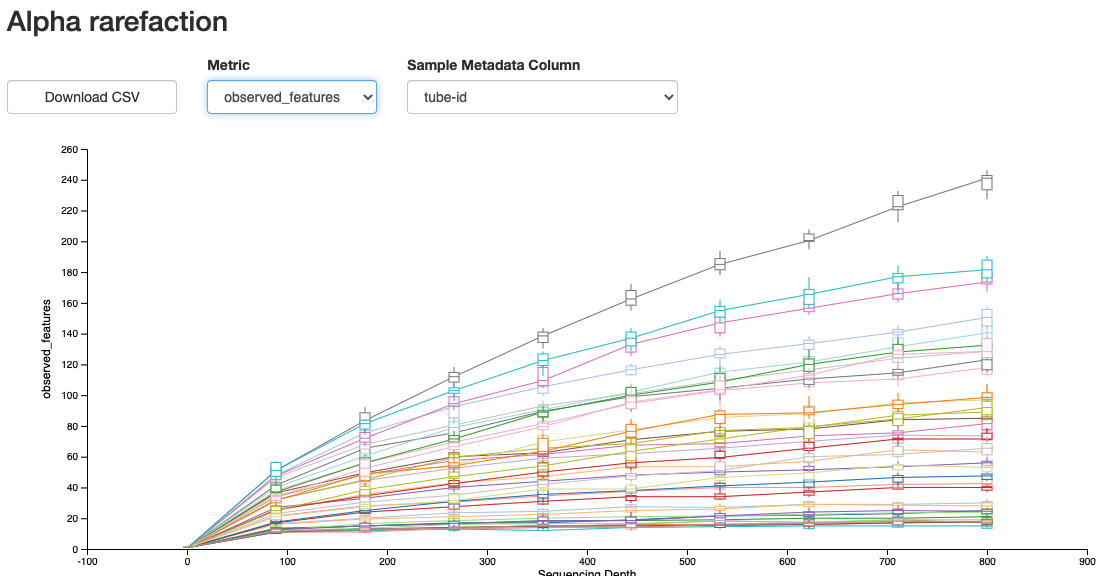
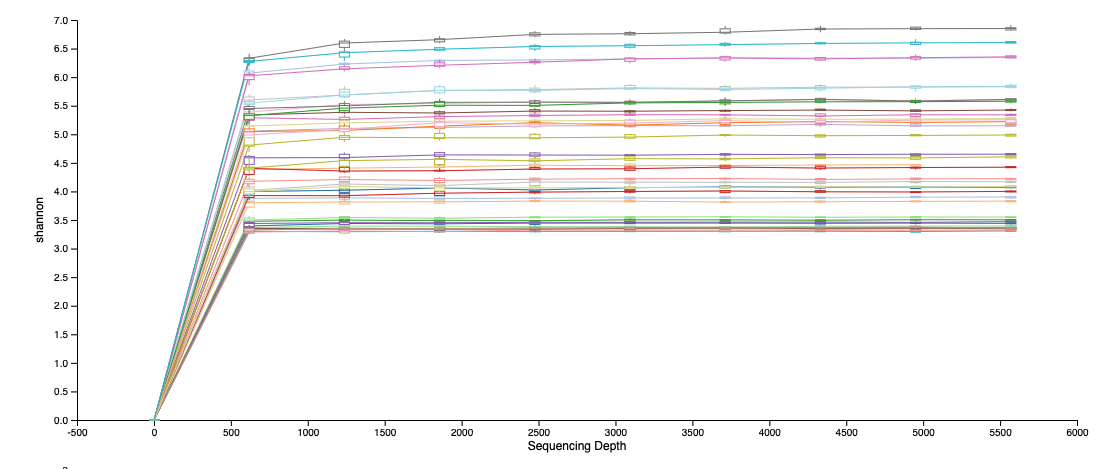
Updated 16s post and added images

diff --git a/_posts/2021-12-30-Mcapitata-Development-16S-Analysis-Part-3.md b/_posts/2021-12-30-Mcapitata-Development-16S-Analysis-Part-3.md
@@ -150,11 +150,10 @@ From the table visualization (table.qzv), we get information on the number of fe
 Classifier: classify-sklearn. This was recommended by QIIME2.
 database: silva-138-99-515-806-nb-classifier.qza. This was most relevant to the primers used.
 
-Download the classifier database  
-
 ```
 cd metadata  
-wget https://data.qiime2.org/2021.4/common/silva-138-99-515-806-nb-classifier.qza
+
+wget https://data.qiime2.org/2021.11/common/silva-138-99-515-806-nb-classifier.qza
 ```  
 
 First run "unfiltered", we will use the output of this analysis to inform a "filtered" analysis next.  
@@ -164,7 +163,7 @@ cd ../scripts
 nano taxonomic_id.sh
 ```
 
-Create the script.  
+Create the script. 
 
 ```
 #!/bin/bash
@@ -253,10 +252,12 @@ qiime metadata tabulate \
     --o-visualization tabulated-feature-metadata.qzv
 ```
 
-Move all visualization files to the desktop.  
+Move relevant visualization files to the desktop. We will move all files over in the next steps.   
 
 ```
-scp ashuffmyer@bluewaves.uri.edu:/data/putnamlab/ashuffmyer/AH_MCAP_16S/processed_data/*.qzv ~/MyProjects/EarlyLifeHistory_Energetics/Mcap2020/Data/16S/
+scp ashuffmyer@bluewaves.uri.edu:/data/putnamlab/ashuffmyer/AH_MCAP_16S/processed_data/taxa-bar-plots.qzv ~/MyProjects/EarlyLifeHistory_Energetics/Mcap2020/Output/16S/qiime/analysis_Feb16
+
+scp ashuffmyer@bluewaves.uri.edu:/data/putnamlab/ashuffmyer/AH_MCAP_16S/processed_data/taxa-bar-plots-filtered.qzv ~/MyProjects/EarlyLifeHistory_Energetics/Mcap2020/Output/16S/qiime/analysis_Feb16
 
 ```
 Before filtering, our taxonomy (level 1) looks like this: 
@@ -315,16 +316,11 @@ qiime phylogeny midpoint-root \
   --o-rooted-tree rooted-tree.qza
 ```
 
-Move all files to the desktop.  
-
-```
-scp ashuffmyer@bluewaves.uri.edu:/data/putnamlab/ashuffmyer/AH_MCAP_16S/processed_data/rooted-tree.qza ~/MyProjects/EarlyLifeHistory_Energetics/Mcap2020/Data/16S/
-
-scp ashuffmyer@bluewaves.uri.edu:/data/putnamlab/ashuffmyer/AH_MCAP_16S/processed_data/unrooted-tree.qza ~/MyProjects/EarlyLifeHistory_Energetics/Mcap2020/Data/16S/
-
-```
-
 ### 11. Calculate Diversity Metrics     
+
+In these scripts, we set the subsampling to 5570, which is the lowest sequence count in our samples. Visualizing sample depth in table.qzv shows that if we subsample to 5570 we retained 217,230 (30.64%) features in 39 (100.00%) samples.  
+
+Note that if you are re-running results, you'll need to `rm -r core-metrics-results`. The script will not overwrite the output directory if it already exists.  
 
 ```
 cd scripts
@@ -340,8 +336,8 @@ nano diversity.sh
 #SBATCH --mail-type=BEGIN,END,FAIL #email you when job starts, stops and/or fails
 #SBATCH --mail-user=ashuffmyer@uri.edu #your email to send notifications
 #SBATCH --account=putnamlab                 
-#SBATCH --error="idfiltered_script_error" #if your job fails, the error report will be put in this file
-#SBATCH --output="idfiltered_output_script" #once your job is completed, any final job report comments will be put in this file
+#SBATCH --error="diversity_script_error" #if your job fails, the error report will be put in this file
+#SBATCH --output="diversity_output_script" #once your job is completed, any final job report comments will be put in this file
 
 source /usr/share/Modules/init/sh # load the module function
 module load QIIME2/2021.8
@@ -354,7 +350,7 @@ METADATA="../metadata/sample_metadata.txt"
 qiime diversity core-metrics-phylogenetic \
   --i-phylogeny rooted-tree.qza \
   --i-table table-filtered.qza \
-  --p-sampling-depth 95 \
+  --p-sampling-depth 5570 \
   --m-metadata-file $METADATA \
   --output-dir core-metrics-results
 
@@ -370,13 +366,13 @@ qiime diversity alpha-group-significance \
 qiime diversity beta-group-significance \
   --i-distance-matrix core-metrics-results/unweighted_unifrac_distance_matrix.qza \
   --m-metadata-file $METADATA \
-  --m-metadata-column Timepoint \
+  --m-metadata-column lifestage \
   --o-visualization core-metrics-results/unweighted-unifrac-station-significance.qzv \
   --p-pairwise
 qiime diversity beta-group-significance \
   --i-distance-matrix core-metrics-results/unweighted_unifrac_distance_matrix.qza \
   --m-metadata-file $METADATA  \
-  --m-metadata-column Treatment \
+  --m-metadata-column lifestage \
   --o-visualization core-metrics-results/unweighted-unifrac-group-significance.qzv \
   --p-pairwise
 
@@ -384,194 +380,50 @@ qiime diversity beta-group-significance \
   qiime diversity alpha-rarefaction \
     --i-table table-filtered.qza \
     --i-phylogeny rooted-tree.qza \
-    --p-max-depth 800 \
+    --p-max-depth 5570 \
     --m-metadata-file $METADATA \
     --o-visualization alpha-rarefaction.qzv
 ```
 
-Move all visualization files to the desktop.  
+Move all data files to the desktop.  
 
 ```
-scp ashuffmyer@bluewaves.uri.edu:/data/putnamlab/ashuffmyer/AH_MCAP_16S/processed_data/*.qzv ~/MyProjects/EarlyLifeHistory_Energetics/Mcap2020/Data/16S/
+scp ashuffmyer@bluewaves.uri.edu:/data/putnamlab/ashuffmyer/AH_MCAP_16S/processed_data/alpha-rarefaction.qzv ~/MyProjects/EarlyLifeHistory_Energetics/Mcap2020/Output/16S/qiime/analysis_Feb16
 
-scp ashuffmyer@bluewaves.uri.edu:/data/putnamlab/ashuffmyer/AH_MCAP_16S/processed_data/*.qza ~/MyProjects/EarlyLifeHistory_Energetics/Mcap2020/Data/16S/
+scp ashuffmyer@bluewaves.uri.edu:/data/putnamlab/ashuffmyer/AH_MCAP_16S/processed_data/tabulated-feature-metadata.qzv ~/MyProjects/EarlyLifeHistory_Energetics/Mcap2020/Output/16S/qiime/analysis_Feb16
 
-scp -r ashuffmyer@bluewaves.uri.edu:/data/putnamlab/ashuffmyer/AH_MCAP_16S/processed_data/core-metrics-results ~/MyProjects/EarlyLifeHistory_Energetics/Mcap2020/Data/16S/
+scp ashuffmyer@bluewaves.uri.edu:/data/putnamlab/ashuffmyer/AH_MCAP_16S/processed_data/taxonomy.qzv ~/MyProjects/EarlyLifeHistory_Energetics/Mcap2020/Output/16S/qiime/analysis_Feb16
+
+scp ashuffmyer@bluewaves.uri.edu:/data/putnamlab/ashuffmyer/AH_MCAP_16S/processed_data/table.qzv ~/MyProjects/EarlyLifeHistory_Energetics/Mcap2020/Output/16S/qiime/analysis_Feb16
+
+scp ashuffmyer@bluewaves.uri.edu:/data/putnamlab/ashuffmyer/AH_MCAP_16S/processed_data/denoising-stats.qzv ~/MyProjects/EarlyLifeHistory_Energetics/Mcap2020/Output/16S/qiime/analysis_Feb16
+
+scp ashuffmyer@bluewaves.uri.edu:/data/putnamlab/ashuffmyer/AH_MCAP_16S/processed_data/core-metrics-results/*.qzv ~/MyProjects/EarlyLifeHistory_Energetics/Mcap2020/Output/16S/qiime/analysis_Feb16
+
+scp ashuffmyer@bluewaves.uri.edu:/data/putnamlab/ashuffmyer/AH_MCAP_16S/processed_data/core-metrics-results/*.qza ~/MyProjects/EarlyLifeHistory_Energetics/Mcap2020/Output/16S/qiime/analysis_Feb16
+
+scp ashuffmyer@bluewaves.uri.edu:/data/putnamlab/ashuffmyer/AH_MCAP_16S/processed_data/*.qza ~/MyProjects/EarlyLifeHistory_Energetics/Mcap2020/Output/16S/qiime/analysis_Feb16
+
+scp ashuffmyer@bluewaves.uri.edu:/data/putnamlab/ashuffmyer/AH_MCAP_16S/processed_data/*.qzv ~/MyProjects/EarlyLifeHistory_Energetics/Mcap2020/Output/16S/qiime/analysis_Feb16
+
 
 ```
 
+Rarefaction curve at the sampling depth we used:  
 ![rarefraction](https://ahuffmyer.github.io/ASH_Putnam_Lab_Notebook/images/NotebookImages/16S/rarefraction.png) 
 
-![bray](https://ahuffmyer.github.io/ASH_Putnam_Lab_Notebook/images/NotebookImages/16S/bray_emperor.png) 
+Faith's Phylogenetic Diversity:   
+![alpha](https://ahuffmyer.github.io/ASH_Putnam_Lab_Notebook/images/NotebookImages/16S/alpha_diversity.png) 
+
+Unifrac PERMANOVA group distances:  
+![unifrac](https://ahuffmyer.github.io/ASH_Putnam_Lab_Notebook/images/NotebookImages/16S/group_unifrac.png)  
 
 
-![unifrac](https://ahuffmyer.github.io/ASH_Putnam_Lab_Notebook/images/NotebookImages/16S/unifrac.png)  
+We can now build other visualizations in R.  
 
 Based on these preliminary analyses, it looks as though we have some interesting groupings by lifestage.  
 
-All data can be found on [GitHub here](https://github.com/AHuffmyer/EarlyLifeHistory_Energetics/tree/master/Mcap2020/Data/16S).  
-
-### Bonus! Assembled script from start to finish in QIIME2 analysis.  
-
-This script includes all commands required for analysis once data is loaded into QIIME2. If filtering parameters need to be changed, this is a good option for running everything at once rather than individually.  
-
-This script is written to run after all the above has been run (it does not include wget commands for example). Once your directories and environment are set up, this will run. 
-
-```
-cd scripts
-nano qiime.sh
-```  
-
-```
-#!/bin/bash
-#SBATCH -t 500:00:00
-#SBATCH --nodes=1 --ntasks-per-node=1
-#SBATCH --export=NONE
-#SBATCH --mem=500GB
-#SBATCH --mail-type=BEGIN,END,FAIL #email you when job starts, stops and/or fails
-#SBATCH --mail-user=ashuffmyer@uri.edu #your email to send notifications
-#SBATCH --account=putnamlab                 
-#SBATCH --error="qiime_script_error" #if your job fails, the error report will be put in this file
-#SBATCH --output="qiime_output_script" #once your job is completed, any final job report comments will be put in this file
-
-
-source /usr/share/Modules/init/sh # load the module function
-module load QIIME2/2021.8
-
-cd ../processed_data
-
-# Metadata path
-METADATA="../metadata/sample_metadata.txt"
-
-### DENOISING
-qiime dada2 denoise-paired --verbose --i-demultiplexed-seqs ../raw_data/AH-MCAP-16S-paired-end-sequences1.qza \
-  --p-trunc-len-r 192 --p-trunc-len-f 245 \
-  --p-trim-left-r 20 --p-trim-left-f 19 \
-  --o-table table.qza \
-  --o-representative-sequences rep-seqs.qza \
-  --o-denoising-stats denoising-stats.qza \
-  --p-n-threads 20
-
-# Summarize feature table and sequences
-  qiime metadata tabulate \
-    --m-input-file denoising-stats.qza \
-    --o-visualization denoising-stats.qzv
-  qiime feature-table summarize \
-    --i-table table.qza \
-    --o-visualization table.qzv \
-    --m-sample-metadata-file $METADATA
-  qiime feature-table tabulate-seqs \
-    --i-data rep-seqs.qza \
-    --o-visualization rep-seqs.qzv
-
-### TAXONOMIC IDENTIFICATION  
-qiime feature-classifier classify-sklearn \
-  --i-classifier ../metadata/silva-138-99-515-806-nb-classifier.qza \
-  --i-reads rep-seqs.qza \
-  --o-classification taxonomy.qza
-
-qiime metadata tabulate \
-    --m-input-file taxonomy.qza \
-    --o-visualization taxonomy.qzv
-qiime taxa barplot \
-    --i-table table.qza \
-    --i-taxonomy taxonomy.qza \
-    --m-metadata-file $METADATA \
-    --o-visualization taxa-bar-plots.qzv
-qiime metadata tabulate \
-    --m-input-file rep-seqs.qza \
-    --m-input-file taxonomy.qza \
-    --o-visualization tabulated-feature-metadata.qzv
-
-qiime taxa filter-table \
-     --i-table table.qza \
-     --i-taxonomy taxonomy.qza \
-     --p-mode contains \
-     --p-exclude "Unassigned","Chloroplast","Eukaryota" \
-     --o-filtered-table table-filtered.qza
-
-qiime metadata tabulate \
-    --m-input-file taxonomy.qza \
-    --o-visualization taxonomy.qzv
-qiime taxa barplot \
-    --i-table table-filtered.qza \
-    --i-taxonomy taxonomy.qza \
-    --m-metadata-file $METADATA \
-    --o-visualization taxa-bar-plots-filtered.qzv
-qiime metadata tabulate \
-    --m-input-file rep-seqs.qza \
-    --m-input-file taxonomy.qza \
-    --o-visualization tabulated-feature-metadata.qzv
-    
-### PHYLOGENETIC TREES  
-# align and mask sequences
-qiime alignment mafft \
-  --i-sequences rep-seqs.qza \
-  --o-alignment aligned-rep-seqs.qza
-qiime alignment mask \
-  --i-alignment aligned-rep-seqs.qza \
-  --o-masked-alignment masked-aligned-rep-seqs.qza
-
-# calculate tree
-qiime phylogeny fasttree \
-  --i-alignment masked-aligned-rep-seqs.qza \
-  --o-tree unrooted-tree.qza
-qiime phylogeny midpoint-root \
-  --i-tree unrooted-tree.qza \
-  --o-rooted-tree rooted-tree.qza
-
-### CALCULATE DIVERSITY
-qiime diversity core-metrics-phylogenetic \
-  --i-phylogeny rooted-tree.qza \
-  --i-table table-filtered.qza \
-  --p-sampling-depth 95 \
-  --m-metadata-file $METADATA \
-  --output-dir core-metrics-results
-
-qiime diversity alpha-group-significance \
-  --i-alpha-diversity core-metrics-results/faith_pd_vector.qza \
-  --m-metadata-file $METADATA \
-  --o-visualization core-metrics-results/faith-pd-group-significance.qzv
-qiime diversity alpha-group-significance \
-  --i-alpha-diversity core-metrics-results/evenness_vector.qza \
-  --m-metadata-file $METADATA \
-  --o-visualization core-metrics-results/evenness-group-significance.qzv
-
-qiime diversity beta-group-significance \
-  --i-distance-matrix core-metrics-results/unweighted_unifrac_distance_matrix.qza \
-  --m-metadata-file $METADATA \
-  --m-metadata-column Timepoint \
-  --o-visualization core-metrics-results/unweighted-unifrac-station-significance.qzv \
-  --p-pairwise
-qiime diversity beta-group-significance \
-  --i-distance-matrix core-metrics-results/unweighted_unifrac_distance_matrix.qza \
-  --m-metadata-file $METADATA  \
-  --m-metadata-column Treatment \
-  --o-visualization core-metrics-results/unweighted-unifrac-group-significance.qzv \
-  --p-pairwise
-
-# This script calculates the rarefaction curve for the data
-  qiime diversity alpha-rarefaction \
-    --i-table table-filtered.qza \
-    --i-phylogeny rooted-tree.qza \
-    --p-max-depth 800 \
-    --m-metadata-file $METADATA \
-    --o-visualization alpha-rarefaction.qzv
-    
-echo "Mission complete!" $(date)  
-```
-
-Move all visualization files to desktop.  
-
-```
-scp ashuffmyer@bluewaves.uri.edu:/data/putnamlab/ashuffmyer/AH_MCAP_16S/processed_data/*.qzv ~/MyProjects/EarlyLifeHistory_Energetics/Mcap2020/Data/16S/
-
-scp ashuffmyer@bluewaves.uri.edu:/data/putnamlab/ashuffmyer/AH_MCAP_16S/processed_data/*.qza ~/MyProjects/EarlyLifeHistory_Energetics/Mcap2020/Data/16S/
-
-scp -r ashuffmyer@bluewaves.uri.edu:/data/putnamlab/ashuffmyer/AH_MCAP_16S/processed_data/core-metrics-results ~/MyProjects/EarlyLifeHistory_Energetics/Mcap2020/Data/16S/
-
-scp -r ashuffmyer@bluewaves.uri.edu:/data/putnamlab/ashuffmyer/AH_MCAP_16S/processed_data/ ~/MyProjects/EarlyLifeHistory_Energetics/Mcap2020/Data/16S/
-```
+All data can be found on [GitHub here](https://github.com/AHuffmyer/EarlyLifeHistory_Energetics/tree/master/Mcap2020/Output/16S).  
 
 Based on the QIIME2 visualizations (above) we appear to have differences in microbial communities between samples/lifestages. From here, we can visualize results in R.  
 
